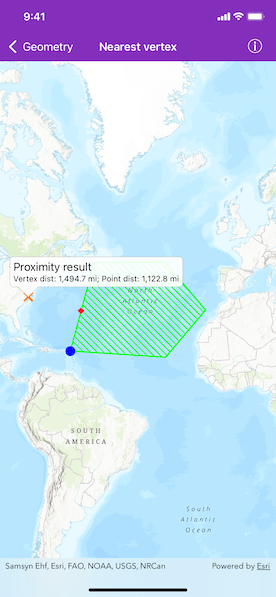
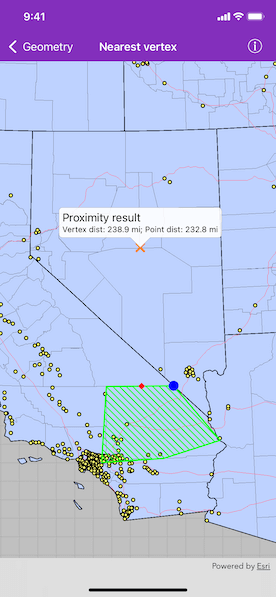
Update docs.

diff --git a/arcgis-ios-sdk-samples/Geometry/Nearest vertex/README.md b/arcgis-ios-sdk-samples/Geometry/Nearest vertex/README.md
@@ -24,16 +24,13 @@ Tap anywhere on the map. An orange cross will show at that location. A blue circ
 
 * AGSGeometry
 * AGSProximityResult
-* class AGSGeometryEngine.geodeticDistanceBetweenPoint1(_:point2:distanceUnit:azimuthUnit:curveType:)
 * class AGSGeometryEngine.nearestCoordinate(in:to:)
 * class AGSGeometryEngine.nearestVertex(in:to:)
 * class AGSGeometryEngine.normalizeCentralMeridian(of:)
 
 ## Additional information
 
-The value of `AGSProximityResult.distance` is planar (Euclidean) distance. Planar distances are only accurate for geometries that have a defined projected coordinate system, which preserves distance and length. The geometries in this sample are defined in Auxiliary Sphere (WKID 3857), which doesn't preserve distance. Hence we need to use the geodetic distance method to measure accurate distances in this example.
-
-Because the Web Mercator projected coordinate system is so common in web maps and it heavily distorts both area and length measurements, all geodetic measurement APIs are designed to allow geometries with Web Mercator spatial references as input. This allows you to measure geometries accurately in Web Mercator without having to project them to a different coordinate system.
+The value of `AGSProximityResult.distance` is planar (Euclidean) distance. Planar distances are only accurate for geometries that have a defined projected coordinate system, which maintain the desired level of accuracy. The example polygon in this sample is defined in California State Plane Coordinate System - Zone 5 (WKID 2229), which maintains accuracy near Southern California. Accuracy declines outside the state plane zone.
 
 ## Tags
 
